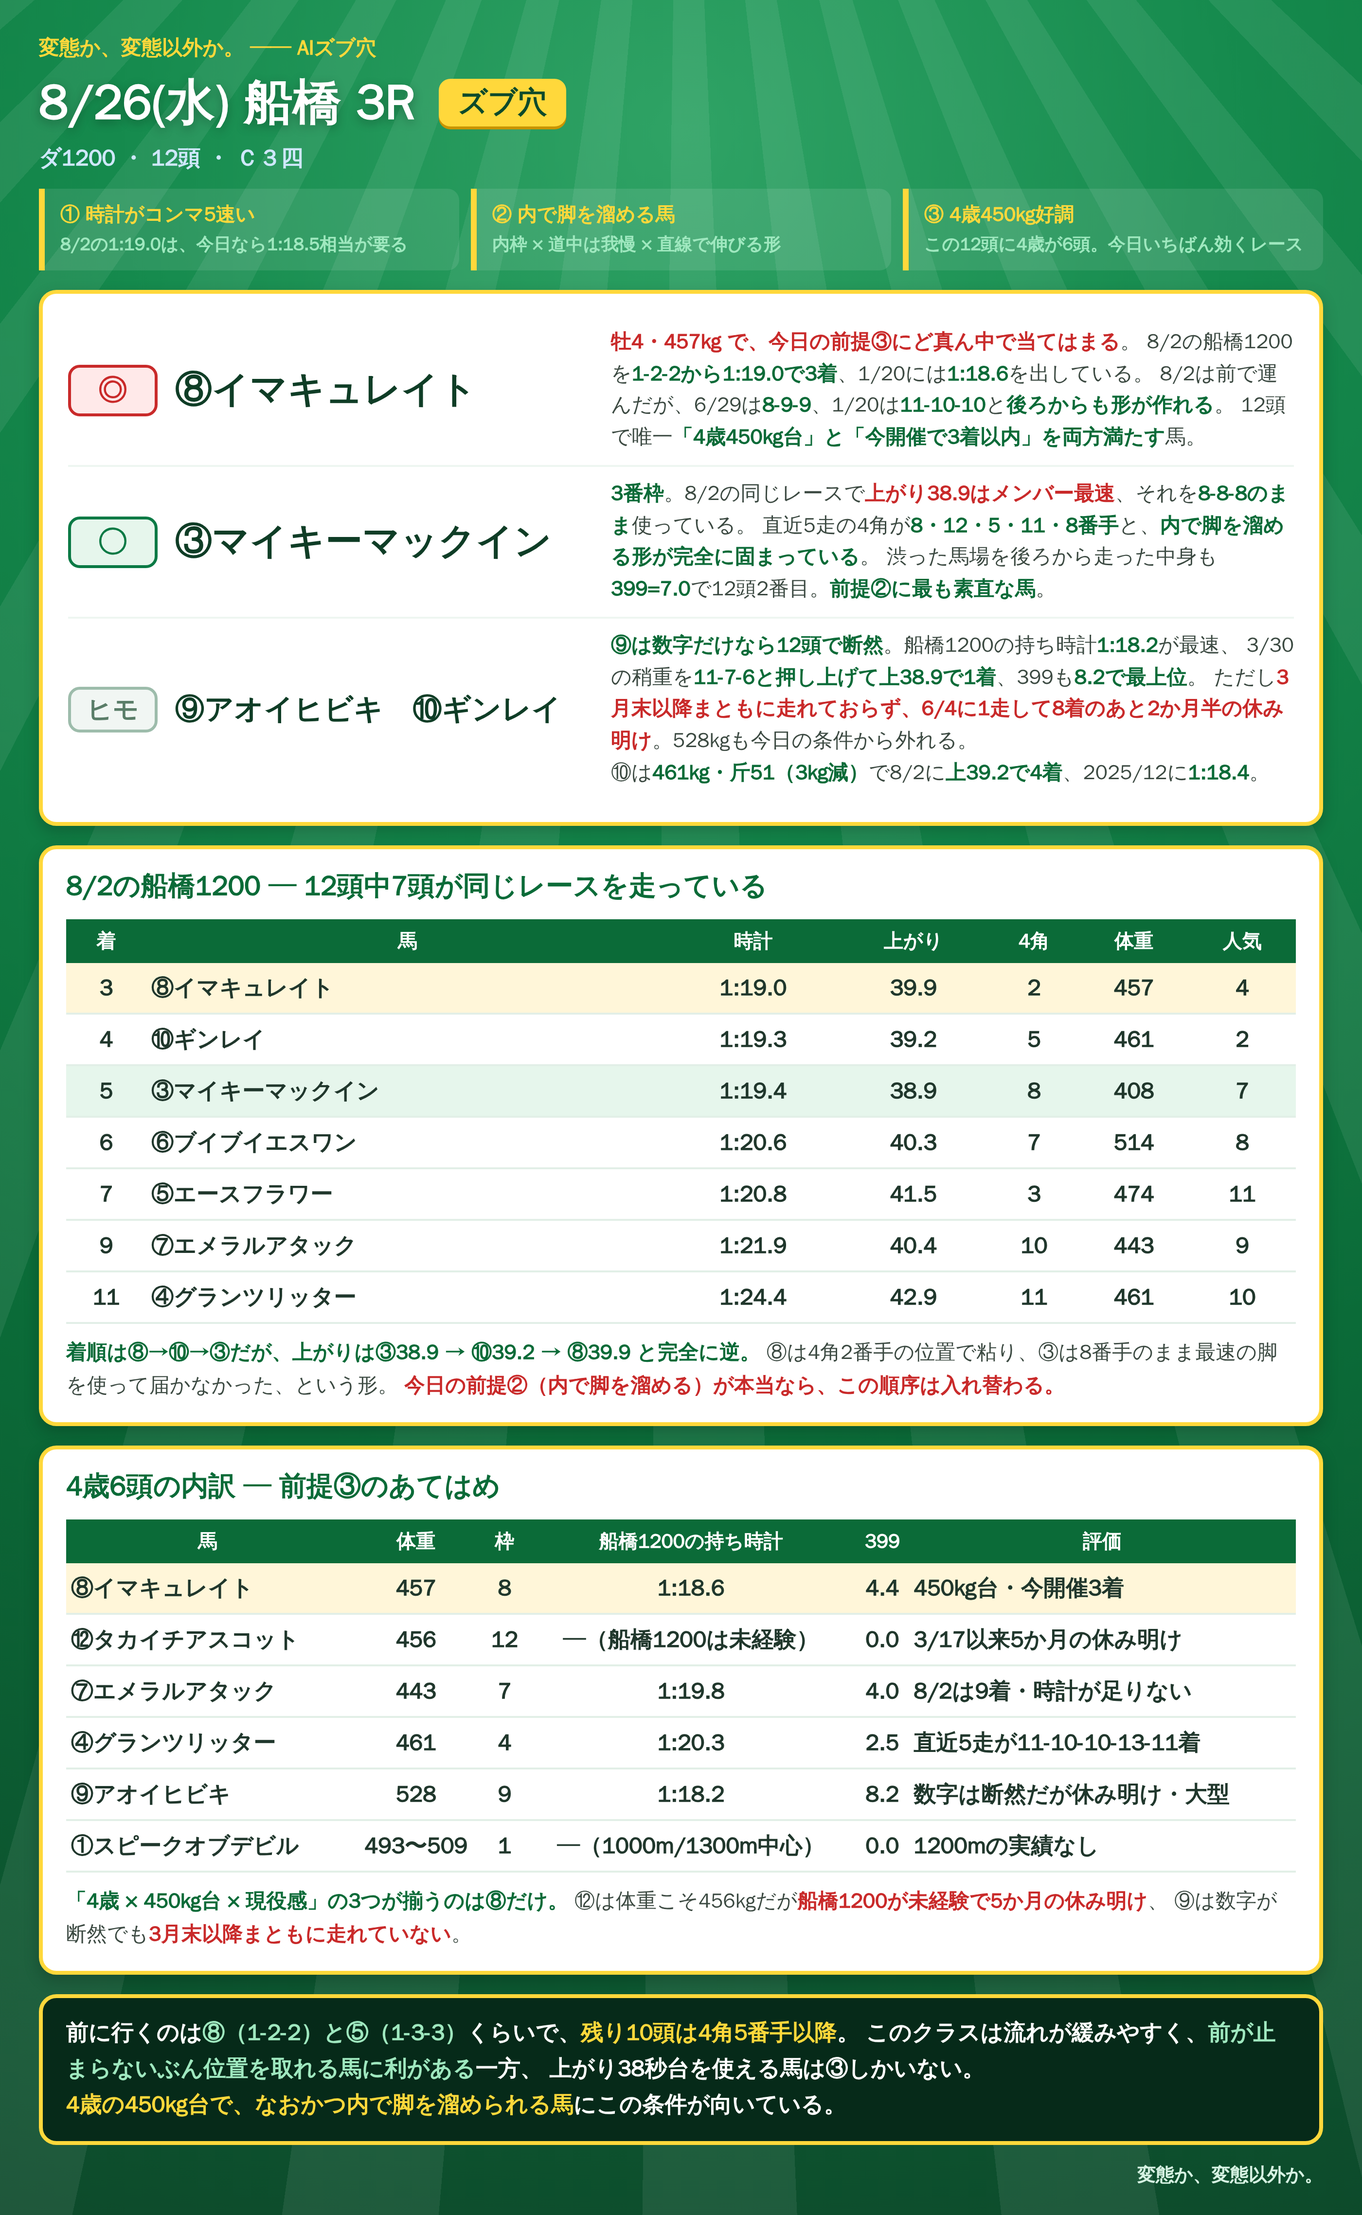
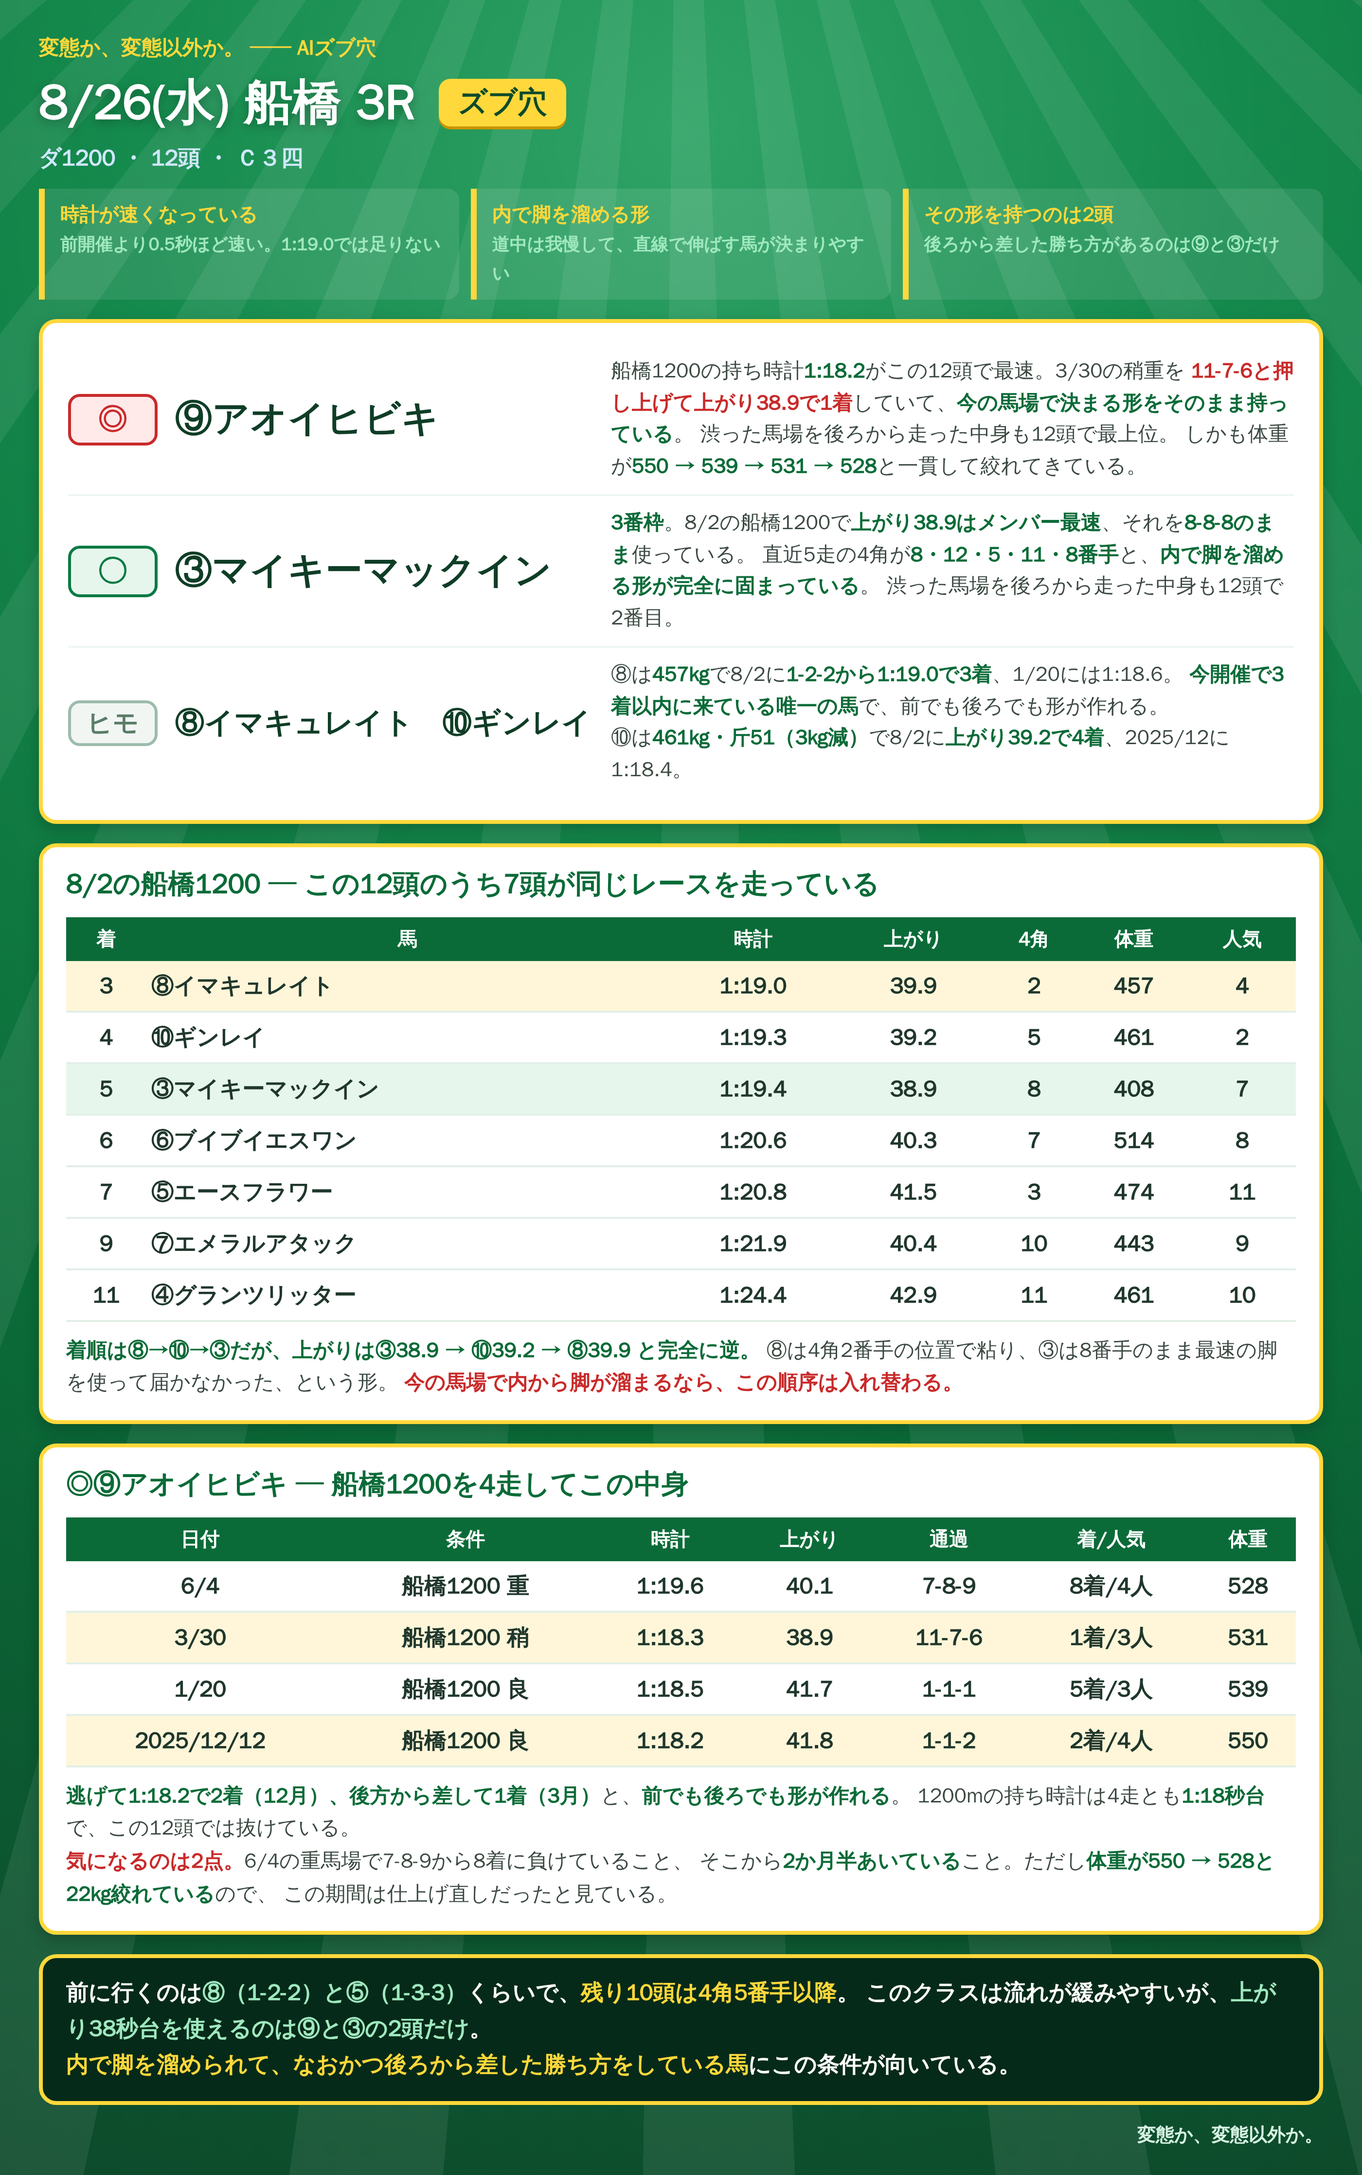
8/26 船橋 3R を差し替え
◎⑨アオイヒビキ ○③マイキーマックイン ヒモ⑧⑩ に確定し、
カードを1枚に統合（対照版のファイルは削除）。

Claude-Session: https://claude.ai/code/session_01RoHscZkr96FNaxQWvUqgEw

diff --git a/notes/live/2026-08-26/funabashi_3R.html b/notes/live/2026-08-26/funabashi_3R.html
@@ -44,39 +44,38 @@
 <div class="cond">ダ1200 ・ 12頭 ・ Ｃ３四</div>
 
 <div class="reads">
- <div class="rd"><b>① 時計がコンマ5速い</b><br><span class="x">8/2の1:19.0は、今日なら1:18.5相当が要る</span></div>
- <div class="rd"><b>② 内で脚を溜める馬</b><br><span class="x">内枠 × 道中は我慢 × 直線で伸びる形</span></div>
- <div class="rd"><b>③ 4歳450kg好調</b><br><span class="x">この12頭に4歳が6頭。今日いちばん効くレース</span></div>
+ <div class="rd"><b>時計が速くなっている</b><br><span class="x">前開催より0.5秒ほど速い。1:19.0では足りない</span></div>
+ <div class="rd"><b>内で脚を溜める形</b><br><span class="x">道中は我慢して、直線で伸ばす馬が決まりやすい</span></div>
+ <div class="rd"><b>その形を持つのは2頭</b><br><span class="x">後ろから差した勝ち方があるのは⑨と③だけ</span></div>
 </div>
 
 <div class="picks">
  <div class="pr">
-  <div class="mk">◎</div><div class="nm">⑧イマキュレイト</div>
-  <div class="why"><b class="r">牡4・457kg で、今日の前提③にど真ん中で当てはまる</b>。
-  8/2の船橋1200を<b>1-2-2から1:19.0で3着</b>、1/20には<b>1:18.6</b>を出している。
-  8/2は前で運んだが、6/29は<b>8-9-9</b>、1/20は<b>11-10-10</b>と<b>後ろからも形が作れる</b>。
-  12頭で唯一<b>「4歳450kg台」と「今開催で3着以内」を両方満たす</b>馬。</div>
+  <div class="mk">◎</div><div class="nm">⑨アオイヒビキ</div>
+  <div class="why">船橋1200の持ち時計<b>1:18.2</b>がこの12頭で最速。3/30の稍重を
+  <b class="r">11-7-6と押し上げて上がり38.9で1着</b>していて、<b>今の馬場で決まる形をそのまま持っている</b>。
+  渋った馬場を後ろから走った中身も12頭で最上位。
+  しかも体重が<b>550 → 539 → 531 → 528</b>と一貫して絞れてきている。</div>
  </div>
  <div class="pr">
   <div class="mk mk2">○</div><div class="nm">③マイキーマックイン</div>
-  <div class="why"><b>3番枠</b>。8/2の同じレースで<b class="r">上がり38.9はメンバー最速</b>、それを<b>8-8-8のまま</b>使っている。
+  <div class="why"><b>3番枠</b>。8/2の船橋1200で<b>上がり38.9はメンバー最速</b>、それを<b>8-8-8のまま</b>使っている。
   直近5走の4角が<b>8・12・5・11・8番手</b>と、<b>内で脚を溜める形が完全に固まっている</b>。
-  渋った馬場を後ろから走った中身も<b>399=7.0</b>で12頭2番目。<b>前提②に最も素直な馬</b>。</div>
+  渋った馬場を後ろから走った中身も12頭で2番目。</div>
  </div>
  <div class="pr">
-  <div class="mk mk3">ヒモ</div><div class="nm s">⑨アオイヒビキ　⑩ギンレイ</div>
-  <div class="why"><b>⑨は数字だけなら12頭で断然</b>。船橋1200の持ち時計<b>1:18.2</b>が最速、
-  3/30の稍重を<b>11-7-6と押し上げて上38.9で1着</b>、399も<b>8.2で最上位</b>。
-  ただし<b class="r">3月末以降まともに走れておらず、6/4に1走して8着のあと2か月半の休み明け</b>。528kgも今日の条件から外れる。<br>
-  ⑩は<b>461kg・斤51（3kg減）</b>で8/2に<b>上39.2で4着</b>、2025/12に<b>1:18.4</b>。</div>
+  <div class="mk mk3">ヒモ</div><div class="nm s">⑧イマキュレイト　⑩ギンレイ</div>
+  <div class="why">⑧は<b>457kg</b>で8/2に<b>1-2-2から1:19.0で3着</b>、1/20には1:18.6。
+  <b>今開催で3着以内に来ている唯一の馬</b>で、前でも後ろでも形が作れる。<br>
+  ⑩は<b>461kg・斤51（3kg減）</b>で8/2に<b>上がり39.2で4着</b>、2025/12に1:18.4。</div>
  </div>
 </div>
 
 <div class="sec">
- <div class="sh">8/2の船橋1200 ─ 12頭中7頭が同じレースを走っている</div>
+ <div class="sh">8/2の船橋1200 ─ この12頭のうち7頭が同じレースを走っている</div>
  <table>
   <tr><th>着</th><th>馬</th><th>時計</th><th>上がり</th><th>4角</th><th>体重</th><th>人気</th></tr>
-  <tr class="hi"><td>3</td><td class="l">⑧イマキュレイト</td><td><b>1:19.0</b></td><td>39.9</td><td>2</td><td><b>457</b></td><td>4</td></tr>
+  <tr class="hi"><td>3</td><td class="l">⑧イマキュレイト</td><td><b>1:19.0</b></td><td>39.9</td><td>2</td><td>457</td><td>4</td></tr>
   <tr><td>4</td><td class="l">⑩ギンレイ</td><td>1:19.3</td><td>39.2</td><td>5</td><td>461</td><td>2</td></tr>
   <tr class="o"><td>5</td><td class="l">③マイキーマックイン</td><td>1:19.4</td><td><b>38.9</b></td><td><b>8</b></td><td>408</td><td>7</td></tr>
   <tr><td>6</td><td class="l">⑥ブイブイエスワン</td><td>1:20.6</td><td>40.3</td><td>7</td><td>514</td><td>8</td></tr>
@@ -86,28 +85,27 @@
  </table>
  <div class="note"><b>着順は⑧→⑩→③だが、上がりは③38.9 → ⑩39.2 → ⑧39.9 と完全に逆。</b>
  ⑧は4角2番手の位置で粘り、③は8番手のまま最速の脚を使って届かなかった、という形。
- <b class="r">今日の前提②（内で脚を溜める）が本当なら、この順序は入れ替わる。</b></div>
+ <b class="r">今の馬場で内から脚が溜まるなら、この順序は入れ替わる。</b></div>
 </div>
 
 <div class="sec">
- <div class="sh">4歳6頭の内訳 ─ 前提③のあてはめ</div>
+ <div class="sh">◎⑨アオイヒビキ ─ 船橋1200を4走してこの中身</div>
  <table>
-  <tr><th>馬</th><th>体重</th><th>枠</th><th>船橋1200の持ち時計</th><th>399</th><th>評価</th></tr>
-  <tr class="hi"><td class="l">⑧イマキュレイト</td><td><b>457</b></td><td>8</td><td>1:18.6</td><td>4.4</td><td class="l"><b>450kg台・今開催3着</b></td></tr>
-  <tr><td class="l">⑫タカイチアスコット</td><td>456</td><td>12</td><td>─（船橋1200は未経験）</td><td>0.0</td><td class="l">3/17以来5か月の休み明け</td></tr>
-  <tr><td class="l">⑦エメラルアタック</td><td>443</td><td>7</td><td>1:19.8</td><td>4.0</td><td class="l">8/2は9着・時計が足りない</td></tr>
-  <tr><td class="l">④グランツリッター</td><td>461</td><td>4</td><td>1:20.3</td><td>2.5</td><td class="l">直近5走が11-10-10-13-11着</td></tr>
-  <tr><td class="l">⑨アオイヒビキ</td><td>528</td><td>9</td><td><b>1:18.2</b></td><td><b>8.2</b></td><td class="l">数字は断然だが休み明け・大型</td></tr>
-  <tr><td class="l">①スピークオブデビル</td><td>493〜509</td><td>1</td><td>─（1000m/1300m中心）</td><td>0.0</td><td class="l">1200mの実績なし</td></tr>
+  <tr><th>日付</th><th>条件</th><th>時計</th><th>上がり</th><th>通過</th><th>着/人気</th><th>体重</th></tr>
+  <tr><td>6/4</td><td>船橋1200 重</td><td>1:19.6</td><td>40.1</td><td>7-8-9</td><td>8着/4人</td><td><b>528</b></td></tr>
+  <tr class="hi"><td>3/30</td><td>船橋1200 稍</td><td>1:18.3</td><td><b>38.9</b></td><td><b>11-7-6</b></td><td><b>1着</b>/3人</td><td>531</td></tr>
+  <tr><td>1/20</td><td>船橋1200 良</td><td>1:18.5</td><td>41.7</td><td>1-1-1</td><td>5着/3人</td><td>539</td></tr>
+  <tr class="hi"><td>2025/12/12</td><td>船橋1200 良</td><td><b>1:18.2</b></td><td>41.8</td><td>1-1-2</td><td>2着/4人</td><td>550</td></tr>
  </table>
- <div class="note"><b>「4歳 × 450kg台 × 現役感」の3つが揃うのは⑧だけ。</b>
- ⑫は体重こそ456kgだが<b class="r">船橋1200が未経験で5か月の休み明け</b>、
- ⑨は数字が断然でも<b class="r">3月末以降まともに走れていない</b>。</div>
+ <div class="note"><b>逃げて1:18.2で2着（12月）、後方から差して1着（3月）</b>と、<b>前でも後ろでも形が作れる</b>。
+ 1200mの持ち時計は4走とも<b>1:18秒台</b>で、この12頭では抜けている。<br>
+ <b class="r">気になるのは2点。</b>6/4の重馬場で7-8-9から8着に負けていること、
+ そこから<b>2か月半あいている</b>こと。ただし<b>体重が550 → 528と22kg絞れている</b>ので、
+ この期間は仕上げ直しだったと見ている。</div>
 </div>
 
 <div class="foot">前に行くのは<span class="c">⑧（1-2-2）と⑤（1-3-3）</span>くらいで、<span class="y">残り10頭は4角5番手以降</span>。
-このクラスは流れが緩みやすく、<span class="c">前が止まらないぶん位置を取れる馬に利がある</span>一方、
-上がり38秒台を使える馬は③しかいない。<br>
-<span class="y">4歳の450kg台で、なおかつ内で脚を溜められる馬</span>にこの条件が向いている。</div>
+このクラスは流れが緩みやすいが、<span class="c">上がり38秒台を使えるのは⑨と③の2頭だけ</span>。<br>
+<span class="y">内で脚を溜められて、なおかつ後ろから差した勝ち方をしている馬</span>にこの条件が向いている。</div>
 <div class="sig">変態か、変態以外か。</div>
 </div></div></body></html>

diff --git a/notes/live/2026-08-26/README.md b/notes/live/2026-08-26/README.md
@@ -112,19 +112,17 @@
 
 画像: `funabashi_3R.png`
 
-| 印 | 馬 | 年齢 | 体重 | 枠 |
-|---|---|---|---|---|
-| ◎ | ⑧イマキュレイト | 牡4 | **457** | 8 |
-| ○ | ③マイキーマックイン | セ5 | 408 | 3 |
-| ヒモ | ⑨アオイヒビキ／⑩ギンレイ | 牡4／牝5 | 528／461 | 9／10 |
-
-**12頭に4歳が6頭。前提③が今日いちばん効くレース。**
+| 印 | 馬 | 体重 | 枠 |
+|---|---|---|---|
+| ◎ | ⑨アオイヒビキ | 528 | 9 |
+| ○ | ③マイキーマックイン | 408 | 3 |
+| ヒモ | ⑧イマキュレイト／⑩ギンレイ | 457／461 | 8／10 |
 
 ### 8/2の船橋1200（12頭中7頭が同じレース）
 
 | 着 | 馬 | 時計 | 上がり | 4角 | 体重 | 人気 |
 |---|---|---|---|---|---|---|
-| 3 | **⑧イマキュレイト** | **1:19.0** | 39.9 | 2 | **457** | 4 |
+| 3 | ⑧イマキュレイト | **1:19.0** | 39.9 | 2 | 457 | 4 |
 | 4 | ⑩ギンレイ | 1:19.3 | 39.2 | 5 | 461 | 2 |
 | 5 | **③マイキーマックイン** | 1:19.4 | **38.9** | **8** | 408 | 7 |
 | 6 | ⑥ブイブイエスワン | 1:20.6 | 40.3 | 7 | 514 | 8 |
@@ -134,62 +132,9 @@
 
 **着順は⑧→⑩→③だが、上がりは③38.9 → ⑩39.2 → ⑧39.9 と完全に逆。**
 ⑧は4角2番手で粘り、③は8番手のまま最速の脚を使って届かなかった形。
-**前提②（内で脚を溜める）が本当なら、この順序は入れ替わる。**
+内から脚が溜まる馬場なら、この順序は入れ替わる。
 
-### 4歳6頭の内訳（前提③のあてはめ）
-
-| 馬 | 体重 | 枠 | 船橋1200の持ち時計 | 399 | 評価 |
-|---|---|---|---|---|---|
-| **⑧イマキュレイト** | **457** | 8 | 1:18.6 | 4.4 | **450kg台・今開催3着** |
-| ⑫タカイチアスコット | 456 | 12 | ─（未経験） | 0.0 | 3/17以来5か月の休み明け |
-| ⑦エメラルアタック | 443 | 7 | 1:19.8 | 4.0 | 8/2は9着・時計が足りない |
-| ④グランツリッター | 461 | 4 | 1:20.3 | 2.5 | 直近5走が11-10-10-13-11着 |
-| ⑨アオイヒビキ | 528 | 9 | **1:18.2** | **8.2** | 数字は断然だが休み明け・大型 |
-| ①スピークオブデビル | 493〜509 | 1 | ─ | 0.0 | 1200mの実績なし |
-
-**「4歳 × 450kg台 × 現役感」の3つが揃うのは⑧だけ。**
-
-### ⑨アオイヒビキをヒモに置いた理由
-
-船橋1200の持ち時計**1:18.2が12頭で最速**、3/30の稍重を**11-7-6と押し上げて上38.9で1着**、
-399も**8.2で最上位**と、**数字だけなら断然**。
-
-それでもヒモ止まりにしたのは、**3月末以降まともに走れていない**から。
-6/4に1走して8着、そこから2か月半の休み明け。528kgも今日の条件から外れる。
-
-### 展開
-
-前に行くのは⑧（1-2-2）と⑤（1-3-3）くらいで、**残り10頭は4角5番手以降**。
-このクラスは流れが緩みやすく前が止まらない一方、**上がり38秒台を使えるのは③だけ**。
-
-### 3R ─ 年齢を外した版
-
-画像: `funabashi_3R_noage.png`
-
-前提③（4歳450kg）だけ外して、前提①②と数字だけで組み直すとこうなる。
-
-| 印 | 元の版 | 年齢を外した版 |
-|---|---|---|
-| ◎ | ⑧イマキュレイト | **⑨アオイヒビキ** |
-| ○ | ③マイキーマックイン | ③マイキーマックイン（変わらず） |
-| ヒモ | ⑨⑩ | **⑧**⑩ |
-
-**◎○ヒモの4頭は変わらず、⑧と⑨の順序だけが入れ替わる。**
-
-#### ⑨と⑧の比較
-
-| | ⑨アオイヒビキ | ⑧イマキュレイト | 上 |
-|---|---|---|---|
-| 船橋1200の持ち時計 | **1:18.2** | 1:18.6 | **⑨**（0.4秒） |
-| 399（渋った馬場×後方） | **8.2**（本物2） | 4.4（本物1） | **⑨** |
-| 最速の上がり | **38.9** | 39.6 | **⑨** |
-| 後方から差した勝利 | **3/30に11-7-6で1着** | なし | **⑨** |
-| 年齢・体重 | 牡4・528 | 牡4・**457** | ⑧（前提③） |
-| 直近の走り | 6/4に8着 → 2か月半の休み明け | **8/2に3着** | ⑧ |
-
-**数字はすべて⑨が上。⑧が勝っているのは「体重450kg台」と「今開催で走っていること」の2点だけ。**
-
-#### ⑨アオイヒビキの全4走
+### ◎⑨アオイヒビキ ─ 船橋1200を4走してこの中身
 
 | 日付 | 条件 | 時計 | 上がり | 通過 | 着/人気 | 体重 |
 |---|---|---|---|---|---|---|
@@ -199,5 +144,18 @@
 | 2025/12/12 | 船橋1200 良 | **1:18.2** | 41.8 | 1-1-2 | 2着/4人 | 550 |
 
 逃げて1:18.2で2着（12月）、後方から差して1着（3月）と**前でも後ろでも形が作れる**。
-残るリスクは①6/4の重馬場で7-8-9から8着に負けていること、②そこから2か月半の休み明けであること。
-ただし**体重が550 → 528と22kg絞れている**ので、休養は仕上げ直しだった可能性がある。
+1200mの持ち時計は4走とも1:18秒台で、この12頭では抜けている。
+
+気になるのは2点。6/4の重馬場で7-8-9から8着に負けていること、そこから2か月半あいていること。
+ただし**体重が550 → 528と22kg絞れている**ので、この期間は仕上げ直しだったと見ている。
+
+### ヒモの2頭
+
+**⑧イマキュレイト** … 457kg。8/2に1-2-2から1:19.0で3着、1/20に1:18.6。
+**今開催で3着以内に来ている唯一の馬**で、前でも後ろでも形が作れる。
+**⑩ギンレイ** … 461kg・斤51（3kg減）。8/2に上39.2で4着、2025/12に1:18.4。
+
+### 展開
+
+前に行くのは⑧（1-2-2）と⑤（1-3-3）くらいで、**残り10頭は4角5番手以降**。
+このクラスは流れが緩みやすいが、**上がり38秒台を使えるのは⑨と③の2頭だけ**。
